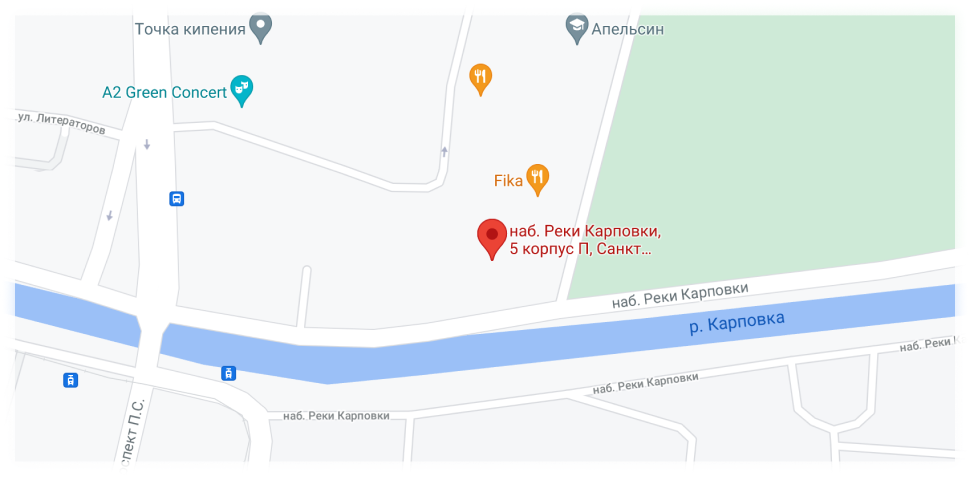
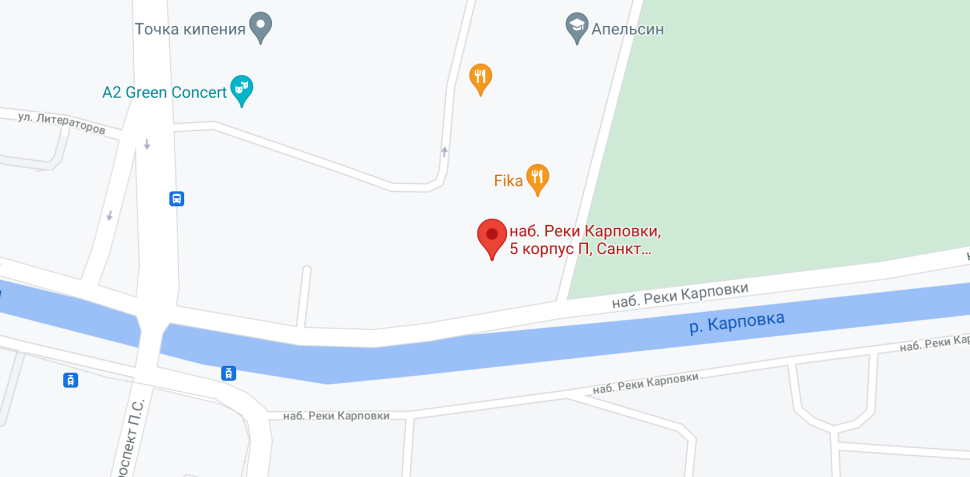
Сетка для модального окна с картой

diff --git a/index.html b/index.html
@@ -562,49 +562,49 @@
 				</div>
 			</div>
 		</footer>
-		<section class="modal-window">
+		<section class="modal-window feed-back-window">
 			<h2 class="visually-hidden">Форма обратной связи</h2>
 			<button class="button-clear close-button" type="button">
-				<svg width="21" height="21" viewBox="0 0 21 21" fill="none" xmlns="http://www.w3.org/2000/svg">
-					<path d="M13.2729 10.4999L20.6949 3.07793C21.0839 2.68893 21.0839 2.05293 20.6949 1.66393L19.3359 0.304934C18.9469 -0.0840664 18.3109 -0.0840664 17.9219 0.304934L10.4999 7.72693L3.07793 0.304934C2.68893 -0.0840664 2.05293 -0.0840664 1.66393 0.304934L0.304934 1.66393C-0.0840664 2.05293 -0.0840664 2.68893 0.304934 3.07793L7.72693 10.4999L0.305934 17.9219C-0.0830664 18.3109 -0.0830664 18.9469 0.305934 19.3359L1.66493 20.6949C2.05393 21.0839 2.68993 21.0839 3.07893 20.6949L10.5009 13.2729L17.9229 20.6949C18.3119 21.0839 18.9479 21.0839 19.3369 20.6949L20.6959 19.3359C21.0849 18.9469 21.0849 18.3109 20.6959 17.9219L13.2729 10.4999Z" fill="#EE3643"/>
-					</svg>					
+				<svg class="close-icon" width="21" height="21" viewBox="0 0 21 21" fill="none" xmlns="http://www.w3.org/2000/svg">
+					<path
+						d="M13.2729 10.4999L20.6949 3.07793C21.0839 2.68893 21.0839 2.05293 20.6949 1.66393L19.3359 0.304934C18.9469 -0.0840664 18.3109 -0.0840664 17.9219 0.304934L10.4999 7.72693L3.07793 0.304934C2.68893 -0.0840664 2.05293 -0.0840664 1.66393 0.304934L0.304934 1.66393C-0.0840664 2.05293 -0.0840664 2.68893 0.304934 3.07793L7.72693 10.4999L0.305934 17.9219C-0.0830664 18.3109 -0.0830664 18.9469 0.305934 19.3359L1.66493 20.6949C2.05393 21.0839 2.68993 21.0839 3.07893 20.6949L10.5009 13.2729L17.9229 20.6949C18.3119 21.0839 18.9479 21.0839 19.3369 20.6949L20.6959 19.3359C21.0849 18.9469 21.0849 18.3109 20.6959 17.9219L13.2729 10.4999Z"
+					/>
+				</svg>
 				<span class="visually-hidden">Закрыть</span>
 			</button>
 			<form class="feed-back-form" action="https://echo.htmlacademy.ru/" method="post">
 				<div class="feed-back-fields">
-					<label class="feed-back feed-back-name">
+					<label class="feed-back">
 						<input class="feed-back-input name-input" type="text" name="name" placeholder="Имя Фамилия" />
 						<span class="feed-back-label name-field">Ваше имя:</span>
 					</label>
-					<label class="feed-back feed-back-email">
+					<label class="feed-back">
 						<input class="feed-back-input email-input" type="email" name="email" placeholder="email@example.com" />
 						<span class="feed-back-label email-field">Ваш e-mail:</span>
 					</label>
-					<label class="feed-back feed-back-message">
-						<textarea class="feed-back-input message-input" type="text" placeholder="В свободной форме"></textarea> 
+					<label class="feed-back">
+						<textarea class="feed-back-input message-input" type="text" placeholder="В свободной форме"></textarea>
 						<span class="feed-back-label message-field">Текст письма:</span>
 					</label>
 				</div>
-
 				<div class="feed-back-footer">
 					<button class="button-clear button-main" type="submit">Отправить</button>
 				</div>
 			</form>
 		</section>
-		<section class="modal-window">
+		<section class="modal-window map-window">
 			<h2 class="visually-hidden">Как нас найти</h2>
-			<button class="button-clear" type="button">
-				<svg width="21" height="21" fill="none" xmlns="http://www.w3.org/2000/svg">
+			<button class="button-clear map-close-button" type="button">
+				<svg class="close-icon" width="21" height="21" fill="none" xmlns="http://www.w3.org/2000/svg">
 					<path
 						d="M13.27 10.5l7.43-7.42a1 1 0 000-1.42L19.34.3a1 1 0 00-1.42 0L10.5 7.73 3.08.3a1 1 0 00-1.42 0L.3 1.66a1 1 0 000 1.42l7.43 7.42L.3 17.92a1 1 0 000 1.42l1.35 1.36a1 1 0 001.42 0l7.42-7.43 7.42 7.43a1 1 0 001.42 0l1.36-1.36a1 1 0 000-1.42l-7.43-7.42z"
-						fill="red"
 					/>
 				</svg>
 				<span class="visually-hidden">Закрыть</span>
 			</button>
 			<div class="navigation-map">
 				<a class="link-clear" href="https://yandex.ru/maps/-/CCU4rKaCGD">
-					<img class="map-img" src="img/map-big.png" width="300" height="158" alt="г. Санкт-Петербург, наб. Реки Карповки, 5 лит П" />
+					<img class="map-img" src="img/map-big.png" width="943" height="449" alt="г. Санкт-Петербург, наб. Реки Карповки, 5 лит П" />
 				</a>
 			</div>
 		</section>

diff --git a/css/style.css b/css/style.css
@@ -219,6 +219,7 @@
 	border: none;
 	background: none;
 	cursor: pointer;
+	padding: 0;
 }
 .text-clear {
 	margin: 0;
@@ -495,7 +496,7 @@
 	padding: 7px 0 0 0;
 }
 /* -------advertisement------- */
-.advertisement{
+.advertisement {
 	margin-bottom: 59px;
 }
 .advertisement-list {
@@ -743,7 +744,7 @@
 	opacity: 0.5;
 }
 /* -------manufacturers------- */
-.popular-manufacturers{
+.popular-manufacturers {
 	margin-bottom: 70px;
 }
 .popular-manufacturers .section-head {
@@ -911,7 +912,7 @@
 }
 .footer-top {
 	display: grid;
-	grid-template-columns: 340px 1fr;
+	grid-template-columns: 350px 1fr;
 	row-gap: 25px;
 	column-gap: 20px;
 }
@@ -994,27 +995,29 @@
 	color: var(--bottom-footer-text-active);
 	text-decoration: none;
 }
-/* -------feed-back form------- */
+/* -------feed-back window------- */
 .modal-window {
 	box-sizing: border-box;
-	width: 620px;
-	height: 430px;
 	color: var(--x-black);
 	box-shadow: 0px 4px 20px var(--modal-window-shadow);
 	border-top: 7px solid var(--modal-window-border);
+}
+.feed-back-window {
+	width: 620px;
+	min-height: 430px;
 	display: flex;
 	flex-direction: column;
+}
+.close-button {
+	align-self: flex-end;
+	transform: translate(-11px, 14px);
 }
 .feed-back-form {
 	flex: 1 1 auto;
 	display: grid;
+	height: 100%;
 	grid-template-columns: 80px 1fr 80px;
 	grid-template-rows: 1fr min-content;
-}
-.close-button {
-	padding: 0;
-	align-self: flex-end;
-	transform: translate(-11px,14px);
 }
 .feed-back-fields {
 	grid-row: 1/2;
@@ -1029,9 +1032,6 @@
 	display: flex;
 	flex-direction: column;
 }
-.feed-back-label{
-	margin-bottom: 11px;
-}
 .name-field {
 	order: -1;
 }
@@ -1044,13 +1044,25 @@
 .feed-back-input {
 	box-sizing: border-box;
 	width: 220px;
-	padding:7px 8px 7px 12px;
+	padding: 7px 8px 7px 12px;
 }
-.feed-back-message .message-input {
+.message-input {
 	box-sizing: border-box;
 	width: 460px;
 	height: 114px;
 	resize: none;
+}
+.feed-back-input {
+	border: 2px solid var(--form-border-field);
+}
+.feed-back-input::placeholder {
+	font-family: "PT Sans", "Helvetica", "Arial", sans-serif;
+	font-size: var(--fz-page-text-placeholder);
+	line-height: var(--lh-page-text-placeholder);
+	color: var(--form-text-placeholder);
+}
+.feed-back-label {
+	margin-bottom: 11px;
 }
 .feed-back-footer {
 	grid-row: 2/3;
@@ -1064,20 +1076,23 @@
 	grid-row: 2/3;
 	grid-column: 2/3;
 }
-.feed-back-input {
-	border: 2px solid var(--form-border-field);
+/* -------map window------- */
+.map-window {
+	width: 943px;
+	min-height: 449px;
+	position: relative;
 }
-.feed-back-input::placeholder {
-	font-family: "PT Sans", "Helvetica", "Arial", sans-serif;
-	font-size: var(--fz-page-text-placeholder);
-	line-height: var(--lh-page-text-placeholder);
-	color: var(--form-text-placeholder);
-}
-
 .map-img {
 	display: block;
-	min-width: 100%;
-	height: auto;
+	width: 100%;
+}
+.map-close-button {
+	position: absolute;
+	top: 10px;
+	right: 10px;
+}
+.close-icon{
+	fill:var(--button-color);
 }
 /* catalog.html */
 /* color */
